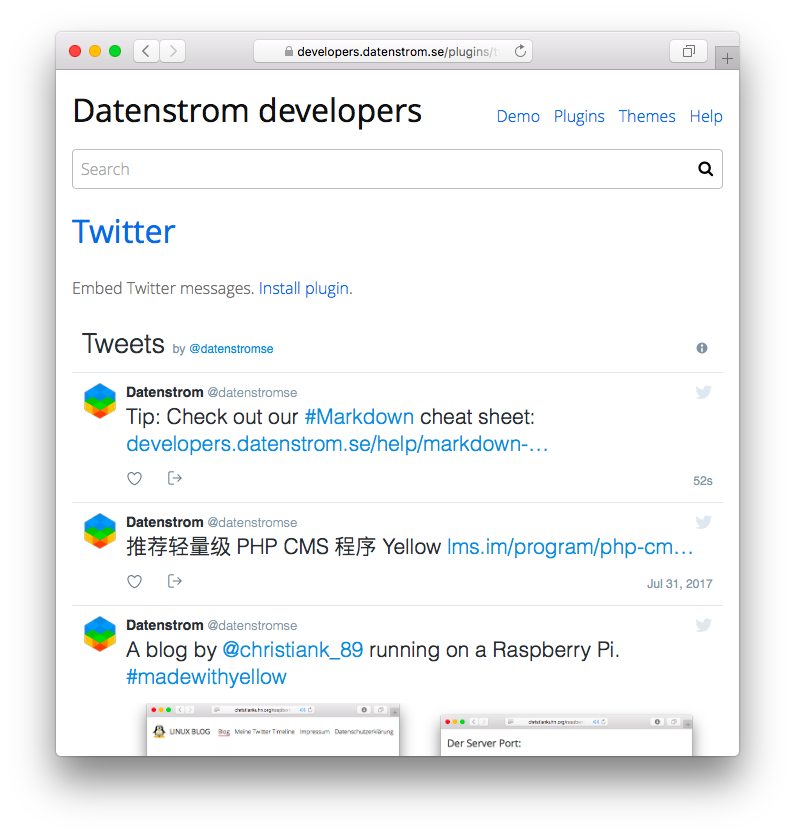
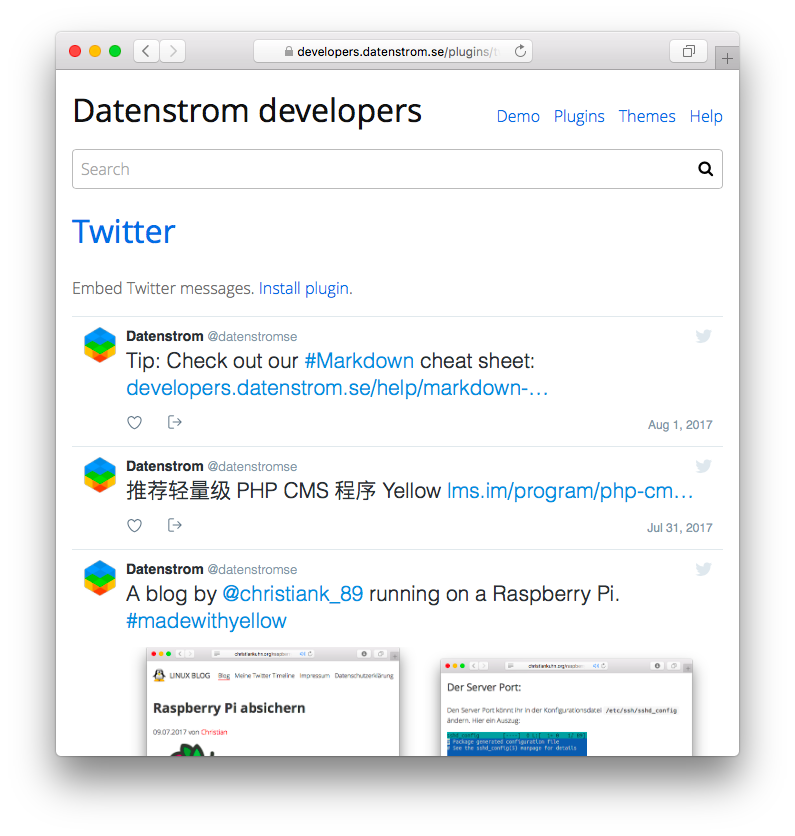
Plugins update (Twitter)

Changed region(s): [[0.0906, 0.3732, 0.9057, 0.9019], [0.8151, 0.4665, 0.9057, 0.5909], [0.8755, 0.3732, 0.9057, 0.4354]]

diff --git a/twitter/twitter.js b/twitter/twitter.js
@@ -1,0 +1,75 @@
+// Twitter plugin, https://github.com/datenstrom/yellow-plugins/tree/master/twitter
+// Copyright (c) 2013-2017 Datenstrom, https://datenstrom.se
+// This file may be used and distributed under the terms of the public license.
+
+window.twttr = (function(d, s, id)
+{
+	var js, fjs = d.getElementsByTagName(s)[0], t = window.twttr || {};
+	if (d.getElementById(id)) return t;
+	js = d.createElement(s);
+	js.id = id;
+	js.src = "https://platform.twitter.com/widgets.js";
+	fjs.parentNode.insertBefore(js, fjs);
+	t._e = [];
+	t.ready = function(f) { t._e.push(f); };
+	return t;
+}(document, "script", "twitter-wjs"));
+
+var initTwitterFromDOM = function()
+{
+	// Parse Twitter options from DOM
+	var parseOptions = function(element, keyNames)
+	{
+		var options = {};
+		for(var i=0; i<element.attributes.length; i++)
+		{
+			var attribute = element.attributes[i], key, value;
+			if(attribute.nodeName.substr(0, 5)=="data-")
+			{
+				key = attribute.nodeName.substr(5);
+				for(var j=0; j<keyNames.length; j++)
+				{
+					if(key==keyNames[j].toLowerCase())
+					{
+						key = keyNames[j];
+						break;
+					}
+				}
+				switch(attribute.nodeValue)
+				{
+					case "true": value = true; break;
+					case "false": value = false; break;
+					default: value = attribute.nodeValue;
+				}
+				options[key] = value;
+			}
+		}
+		return options;
+	};
+
+	// Initialise twitter elements, show tweets and timelines
+	var twitterElements = document.querySelectorAll(".twitter-tweet");
+	for(var i=0, l=twitterElements.length; i<l; i++)
+	{
+		var id = twitterElements[i].getAttribute("data-id");
+		var options = parseOptions(twitterElements[i], ["linkColor"]);
+		twttr.widgets.createTweet(id, twitterElements[i], options);
+	}
+	twitterElements = document.querySelectorAll(".twitter-timeline");
+	for(var i=0, l=twitterElements.length; i<l; i++)
+	{
+		var source =
+		{
+			sourceType: "url",
+			url: twitterElements[i].getAttribute("data-url")
+		};
+		var options = parseOptions(twitterElements[i], ["tweetLimit", "borderColor", "ariaPolite"]);
+		twttr.widgets.createTimeline(source, twitterElements[i], options);
+	}
+};
+
+if(window.addEventListener) {
+	window.addEventListener("load", initTwitterFromDOM, false);
+} else {
+	window.attachEvent("onload", initTwitterFromDOM);
+}

diff --git a/twitter/twitter.php b/twitter/twitter.php
@@ -5,13 +5,14 @@
 
 class YellowTwitter
 {
-	const VERSION = "0.7.1";
+	const VERSION = "0.7.2";
 	var $yellow;			//access to API
 	
 	// Handle initialisation
 	function onLoad($yellow)
 	{
 		$this->yellow = $yellow;
+		$this->yellow->config->setDefault("twitterTheme", "light");
 	}
 	
 	// Handle page content parsing of custom block
@@ -20,22 +21,44 @@ class YellowTwitter
 		$output = null;
 		if($name=="twitter" && $shortcut)
 		{
-			list($id, $width, $height, $theme) = $this->yellow->toolbox->getTextArgs($text);
-			$output = "<div class=\"twitter\">\n";
-			$output .= "<a class=\"twitter-timeline\"";
-			if($width && $height) $output .=" data-width=\"".htmlspecialchars($width)."\" data-height=\"".htmlspecialchars($height)."\"";
-			if($theme) $output .=" data-theme=\"".htmlspecialchars($theme)."\"";
-			$output .= " data-dnt=\"true\" href=\"https://twitter.com/".rawurlencode($id)."\">Tweets by @".htmlspecialchars($id)."</a>\n";
-			$output .= "<script async src=\"https://platform.twitter.com/widgets.js\"></script>\n";
-			$output .= "</div>";
+			list($id, $theme, $style, $width, $height) = $this->yellow->toolbox->getTextArgs($text);
+			if(empty($theme)) $theme = $this->yellow->config->get("twitterTheme");
+			$language = $page->get("language");
+			if(is_numeric($id))
+			{
+				$output = "<div class=\"twitter-tweet\" data-id=\"".htmlspecialchars($id)."\"";
+				if(!empty($width)) $output .=" data-width=\"".htmlspecialchars($width)."\"";
+				if(!empty($height)) $output .=" data-height=\"".htmlspecialchars($height)."\"";
+				if(!empty($style)) $output .=" data-align=\"".htmlspecialchars($style)."\"";
+				$output .= " data-theme=\"".htmlspecialchars($theme)."\" data-lang=\"$language\" data-dnt=\"true\"></div>";
+			} else {
+				$output = "<div class=\"twitter-timeline\" data-url=\"".htmlspecialchars("https://twitter.com/".$id)."\" data-chrome=\"noheader nofooter\"";
+				if(!empty($width)) $output .=" data-width=\"".htmlspecialchars($width)."\"";
+				if(!empty($height)) $output .=" data-height=\"".htmlspecialchars($height)."\"";
+				if(!empty($style)) $output .=" data-align=\"".htmlspecialchars($style)."\"";
+				$output .= " data-theme=\"".htmlspecialchars($theme)."\" data-lang=\"$language\" data-dnt=\"true\"></div>";
+			}
 		}
 		if($name=="twitterfollow" && $shortcut)
 		{
-			list($id) = $this->yellow->toolbox->getTextArgs($text);
-			$output = "<div class=\"twitterfollow\">\n";
-			$output .= "<a href=\"https://twitter.com/".rawurlencode($id)."\" class=\"twitter-follow-button\" data-size=\"large\" data-dnt=\"true\">Follow @".htmlspecialchars($id)."</a>\n";
-			$output .= "<script async src=\"https://platform.twitter.com/widgets.js\"></script>\n";
-			$output .= "</div>";
+			list($id, $dummy, $style) = $this->yellow->toolbox->getTextArgs($text);
+			$language = $page->get("language");
+			if(!empty($style)) $output .= "<div class=\"".htmlspecialchars($style)."\">";
+			$output .= "<a class=\"twitter-follow-button\" data-size=\"large\"";
+			$output .= " data-lang=\"$language\" data-dnt=\"true\" href=\"https://twitter.com/".rawurlencode($id)."\">@".htmlspecialchars($id)."</a>";
+			if(!empty($style)) $output .= "</div>";
+		}
+		return $output;
+	}
+
+	// Handle page extra HTML data
+	function onExtra($name)
+	{
+		$output = null;
+		if($name=="header")
+		{
+			$pluginLocation = $this->yellow->config->get("serverBase").$this->yellow->config->get("pluginLocation");
+			$output = "<script type=\"text/javascript\" src=\"{$pluginLocation}twitter.js\"></script>\n";
 		}
 		return $output;
 	}

diff --git a/twitter/README.md b/twitter/README.md
@@ -1,4 +1,4 @@
-Twitter plugin 0.7.1
+Twitter plugin 0.7.2
 ====================
 Embed Twitter messages. [See demo](https://developers.datenstrom.se/plugins/twitter).
 
@@ -12,26 +12,39 @@ Embed Twitter messages. [See demo](https://developers.datenstrom.se/plugins/twit
 
 To uninstall delete the plugin files.
 
-## How to embed a timeline?
+## How to embed a message?
 
 Create a `[twitter]` shortcut. 
 
 The following arguments are available:
  
-`ID` = public Twitter account  
-`WIDTH` = timeline width, pixel or percent  
-`HEIGHT` = timeline height, pixel or percent  
-`THEME` = timeline theme, e.g. `light` or `dark`  
+`ID` = last part of a [Twitter](https://www.twitter.com) link, e.g. `https://twitter.com/datenstromse/status/581449759493398528`  
+`THEME` = message theme, e.g. `light`, `dark`  
+`STYLE` = message style, e.g. `left`, `center`, `right`  
+`WIDTH` = message width, pixel or percent  
+`HEIGHT` = message height, pixel or percent  
+
+## How to configure a message?
+
+The following settings can be configured in file `system/config/config.ini`:
+
+`TwitterTheme` = message theme  
 
 ## Example
+
+Embedding a tweet:
+
+    [twitter 581449759493398528]
+    [twitter 581449759493398528 dark]
+    [twitter 581449759493398528 light right]
 
 Embedding a timeline:
 
     [twitter datenstromse]
-    [twitter datenstromse 200 220]
-    [twitter datenstromse - - dark]
+    [twitter datenstromse/likes]
+    [twitter datenstromse/likes light - 250 250]
 
-Embedding a button:
+Embedding a follow button:
 
     [twitterfollow datenstromse]
 
